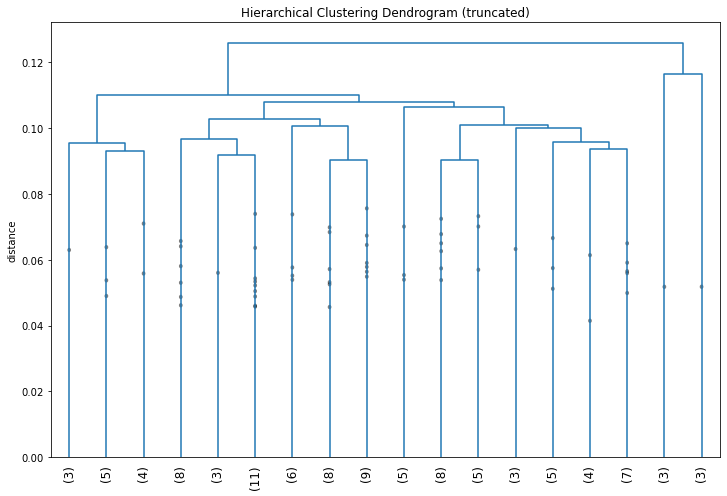
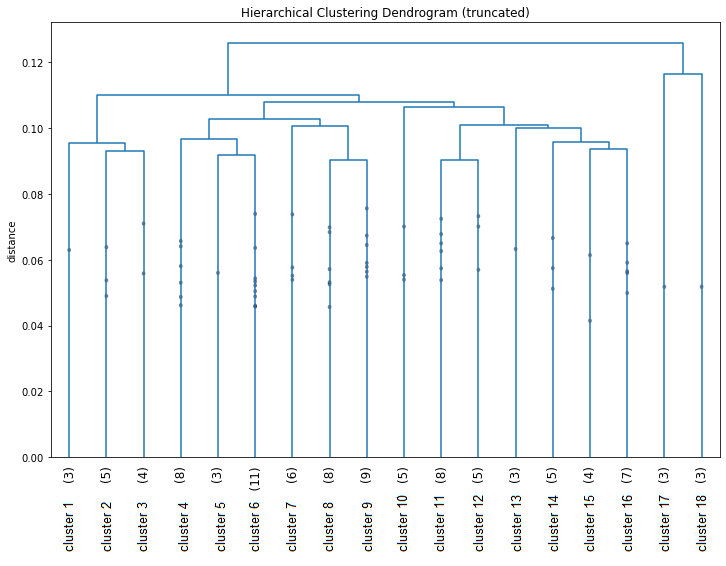
added cluster numbers in dendrogram figure

diff --git a/main.tex b/main.tex
@@ -785,7 +785,8 @@ These, as well as the numerical results shown in the previous section are the re
 \begin{figure} [H]
     \centering
     \includegraphics [width = 12cm] {h/backnet.png}
-    \caption{The weights of a network with the same structure, but trained witha backpropagation algorithm instead. Just like in figure \ref{heatmap}, each 28 by 28 subsquare represents one row of the matrix. Some structures are clearly recognizable, but there is no similarity to the original inputs.}
+    \caption{The weights of a network with the same structure, but trained witha backpropagation algorithm instead. Just like in figure \ref{heatmap}, each 28 by 28 subsquare represents one row of the matrix.
+    Some structures are clearly recognizable, but there is no similarity to the original inputs.}
     \label{backnet}
 \end{figure}
 
@@ -916,7 +917,8 @@ In the first, modification, is added the decay term $-\epsilon W_i$ to the main 
     \tau_L \frac{dW_{ij}}{dt} = g(h_i)(R^p v_i - \braket{\textbf{W,v}}_i W_{ij} ) -\epsilon W_{ij}
 \end{equation}
 
-The value used for $\epsilon$ was 0.05. \todo[inline]{con altri valori che cosa si ottiene? (giustificare il valore di 0.05) (nota per me: ho già l'illustrazione con 0.02)}
+Starting from zero and increasing  $\epsilon$ we observe more and more white sets of neurons in the visual representation of patterns, like in figure \ref{decay}.
+The value used for  was 0.05. 
 
 \subsection{Accuracy of prediction}
 
@@ -1061,8 +1063,6 @@ Then we start by measuring the distances between all starting continents, and jo
 The final dendrogram might look like this:
 (figure \ref{conte})
 
-\todo[inline]{non è chiara la spiegazione. dettagliare meglio come funzioni il clustering agglomerativo; spiegare anche i criteri di agglomerazione fra cluster e le distanze più comuni.}
-
 \begin{figure} [H]
 \centering
 \includegraphics [width=0.7\textwidth] {o/continents.png}
@@ -1142,7 +1142,7 @@ This definition proved to be the best out of others used \todo[inline]{come sono
 
 
 With this definition, out of 18 clusters \todo[inline]{decisi come? perché 18 e non 17 o 19?}, 15 were formed by only one digit, 2 were formed by two digits, and only one was formed of three different digit prototypes.
-All clusters can be visualized in the appendix. \todo[inline]{mettere i numeri ai cluster in modo da capire come si agglomerano (ma non ci sono già?) (nel dendrogramma mettere nomi cluster)}
+All clusters can be visualized in the appendix.
 
 \begin{figure} [H]
     \centering
